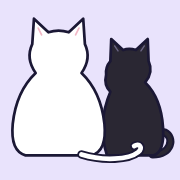
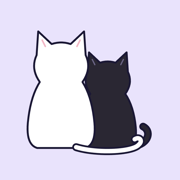
앱 아이콘을 앱 안의 고양이 그림으로
앱의 고양이 SVG로 32 · 180 · 192 · 512 크기를 다시 만들고 manifest에 넣음.

Changed region(s): [[0.0556, 0.0833, 0.9722, 0.9167]]

diff --git a/index.html b/index.html
@@ -8,9 +8,9 @@
 <meta name="apple-mobile-web-app-capable" content="yes">
 <meta name="apple-mobile-web-app-title" content="단어장">
 <meta name="apple-mobile-web-app-status-bar-style" content="default">
-<link rel="manifest" href="manifest.webmanifest">
-<link rel="icon" type="image/png" sizes="32x32" href="icon-32.png">
-<link rel="apple-touch-icon" sizes="180x180" href="icon-180.png">
+<link rel="manifest" href="manifest.webmanifest?v=2">
+<link rel="icon" type="image/png" sizes="32x32" href="icon-32.png?v=2">
+<link rel="apple-touch-icon" sizes="180x180" href="icon-180.png?v=2">
 <link rel="preconnect" href="https://fonts.googleapis.com">
 <link rel="preconnect" href="https://fonts.gstatic.com" crossorigin>
 <link rel="stylesheet" href="https://fonts.googleapis.com/css2?family=IBM+Plex+Sans+KR:wght@400;500;600;700&family=Source+Serif+4:opsz,wght@8..60,600;8..60,700&display=swap">
